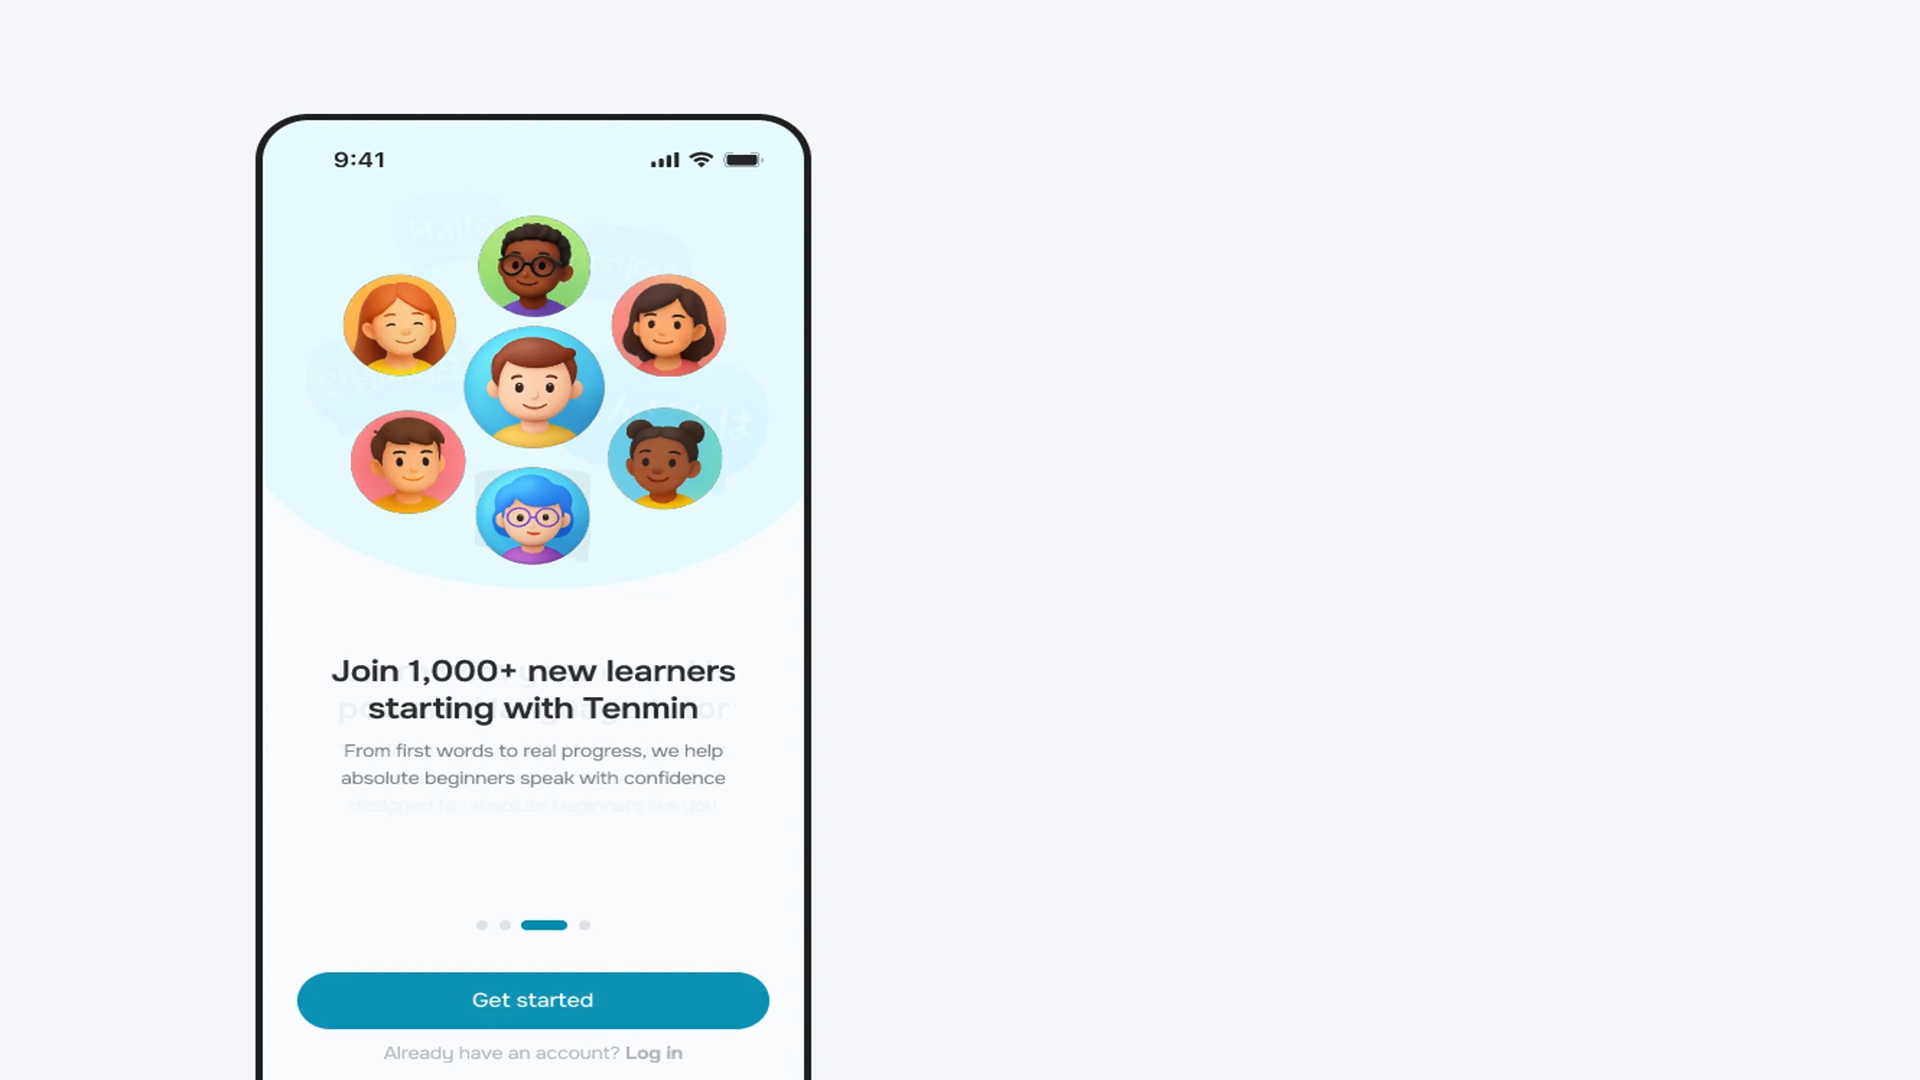
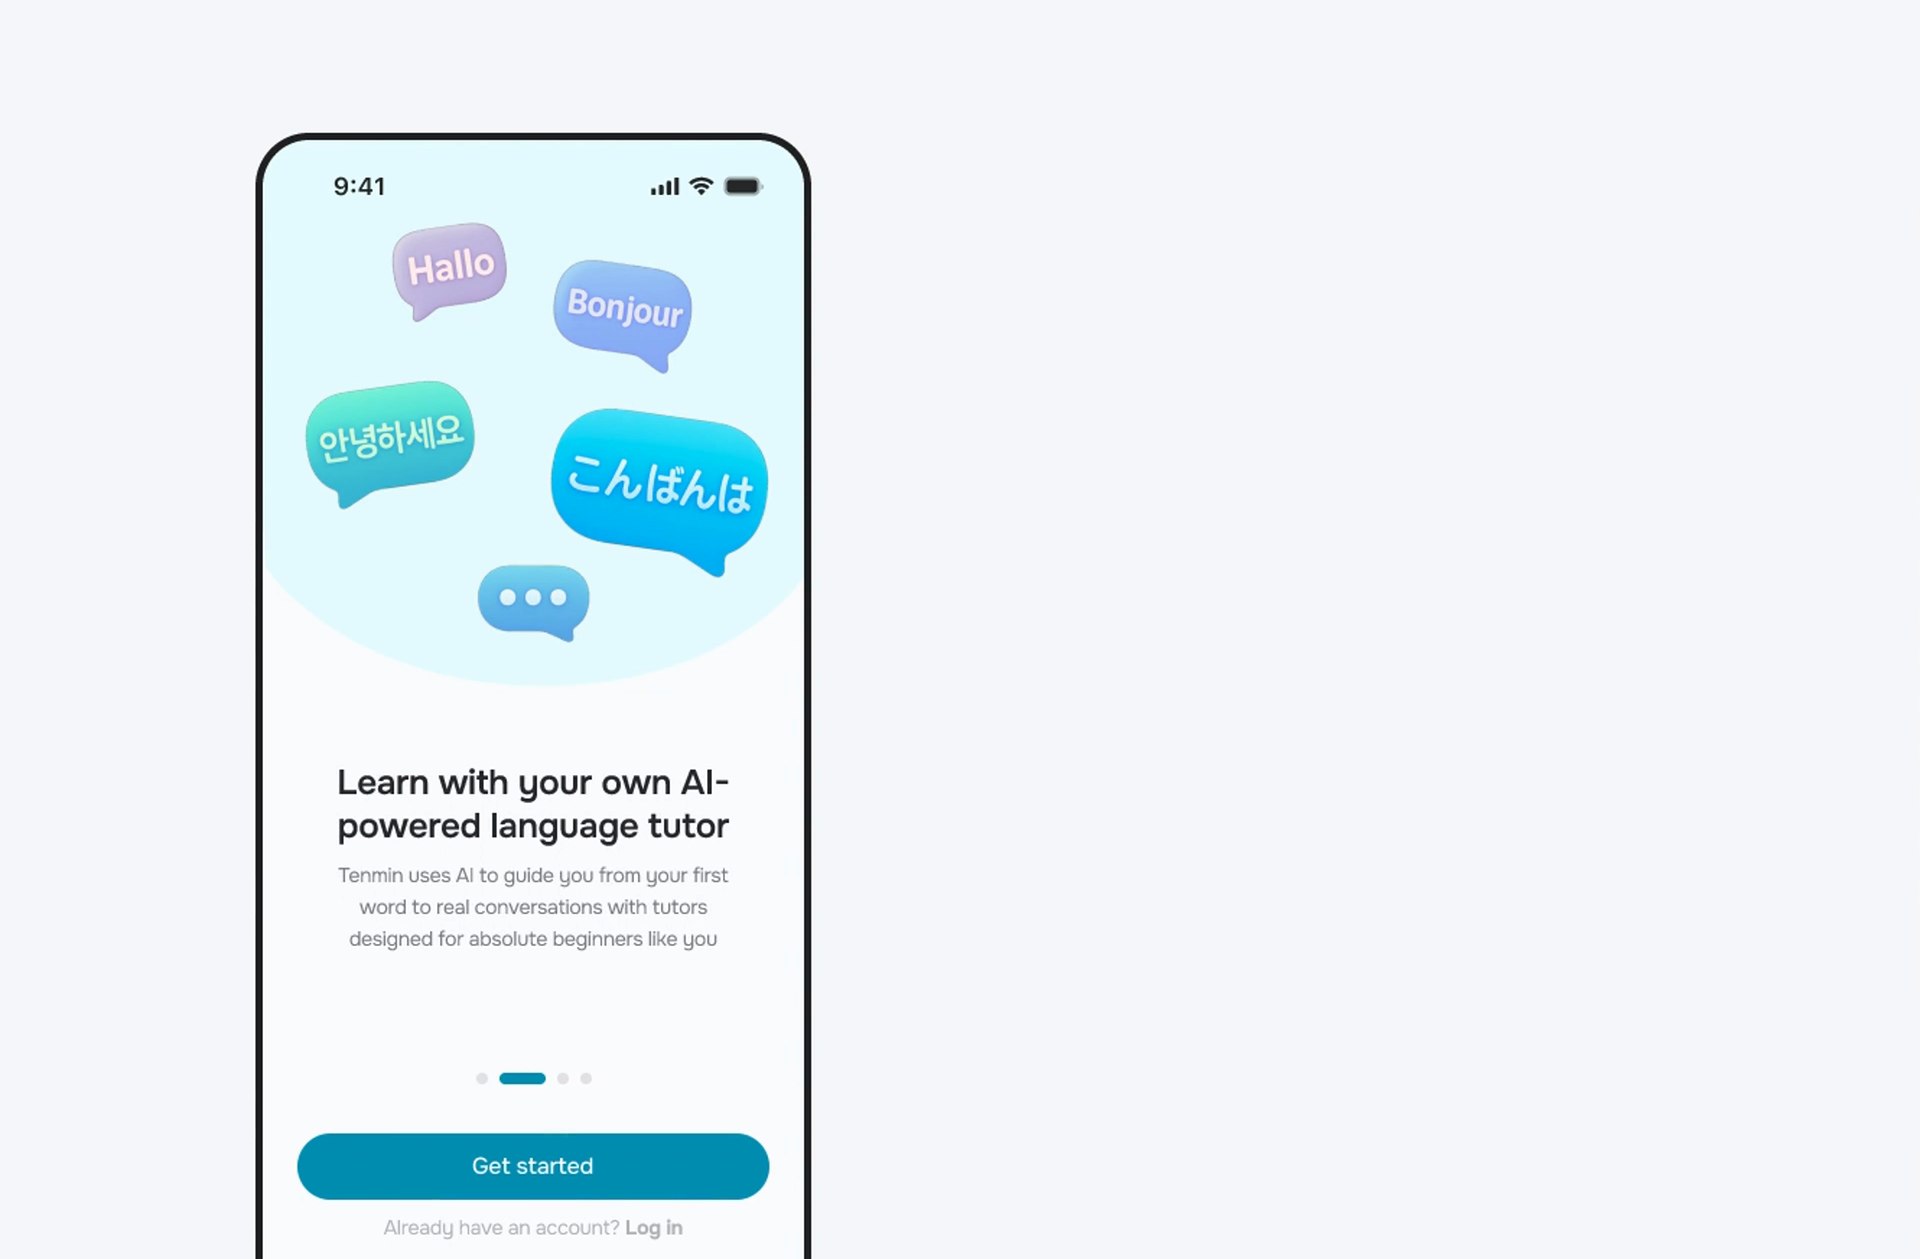
Show the demo at its own aspect instead of cropping it
The clip stores 3840x2160 but carries a non-square pixel aspect, so
its display ratio is 665:436 rather than the 16:9 the storage
dimensions suggest. The frame was set from the storage size, leaving
the player to fill a box 14% wider than the video and crop the sides
to do it -- the zoom that showed up on play.

Set the frame from the display aspect and let video use contain
rather than cover. A still can be cropped to fill its frame; a screen
recording cannot, since cropping cuts off the interface it exists to
show.

Regenerate the poster at the display aspect too, from 1.4s where the
slide has settled -- the previous grab landed mid cross-fade.

Changed region(s): [[0.1562, 0.1528, 0.4062, 0.5194], [0.1562, 0.6111, 0.375, 0.7639]]

diff --git a/src/data/site.ts b/src/data/site.ts
@@ -183,7 +183,7 @@ export const projects: Project[] = [
       preview: {
         tag: 'Preview',
         caption: 'The redesigned onboarding flow',
-        ratio: '16 / 9',
+        ratio: '665 / 436',
         videoSrc: '/tenmin/quick-demo-intro.mp4',
         poster: 'quick-demo-intro-poster.png',
         alt: 'Walkthrough of the redesigned Tenmin onboarding flow',
